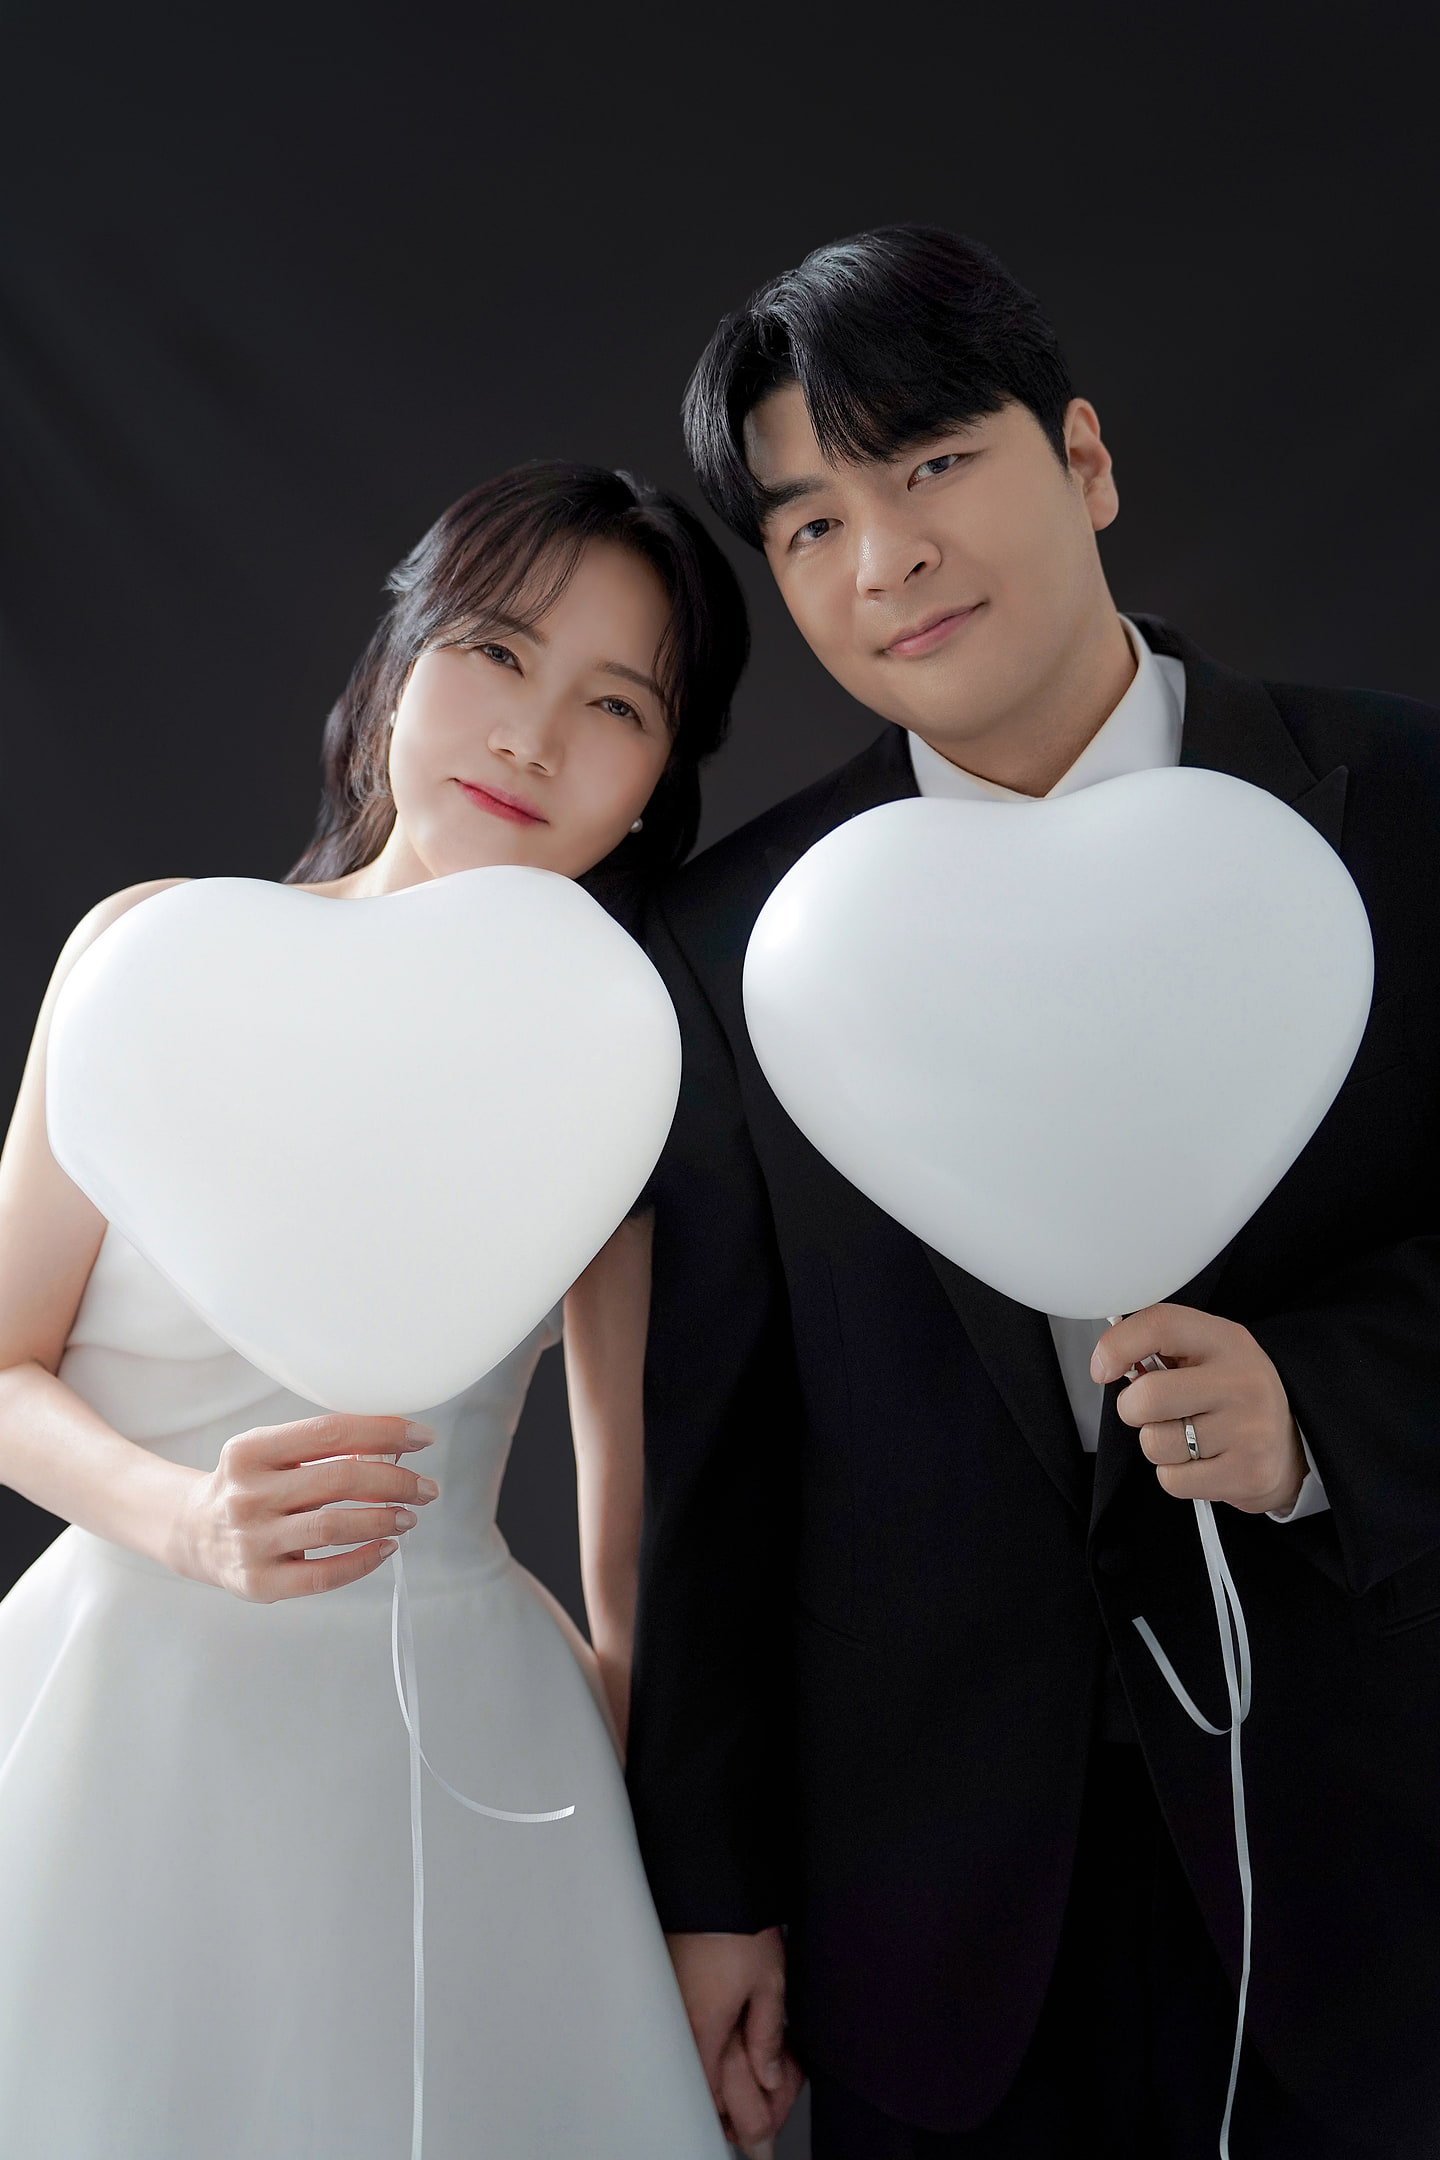
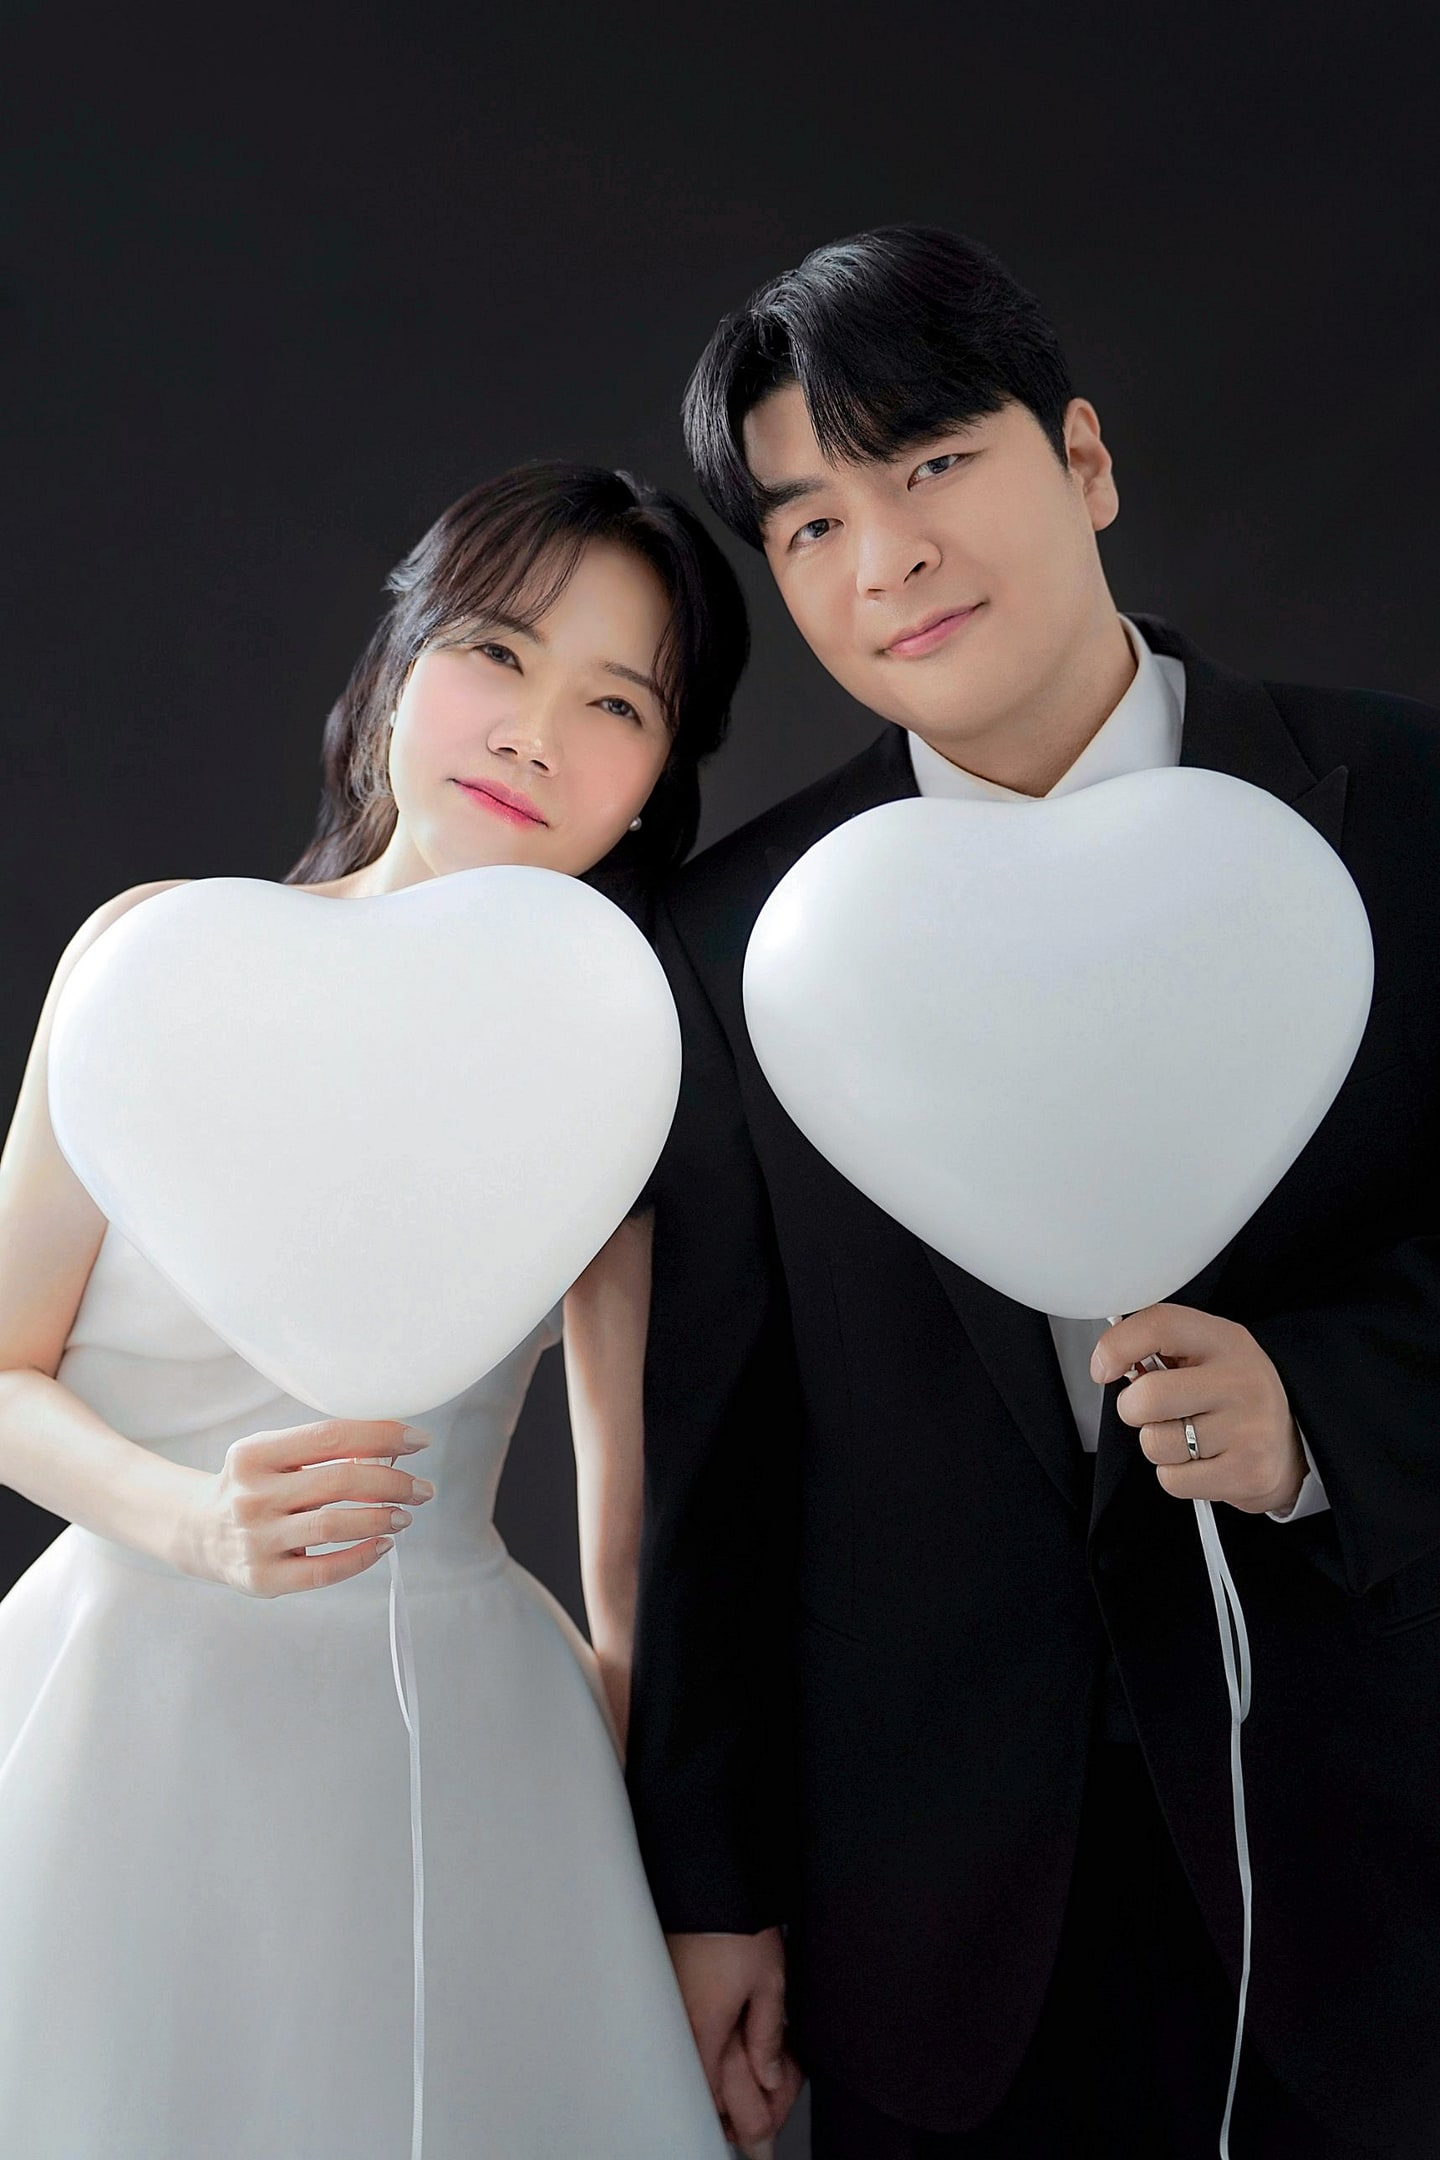
메인 사진을 빨간 꽃 사진으로 교체, 갤러리 7장으로 순서 정리, 카톡 미리보기를 베일 사진으로
- 메인 아치 비율 2:3 (사진 안 잘림)
- gallery5를 하트 풍선 사진으로 교체
- og.jpg 800x480 (두 사람 얼굴이 다 들어가게)

diff --git a/index.html b/index.html
@@ -11,15 +11,15 @@
   <meta property="og:type" content="website" />
   <meta property="og:title" content="석지환 ♥ 백혜정 결혼합니다" />
   <meta property="og:description" content="2026년 12월 13일 일요일 낮 12시 20분 · 더 리버사이드 호텔 노벨라홀" />
-  <meta property="og:image" content="https://jhhj-wedding.github.io/images/og.jpg?v=2" />
+  <meta property="og:image" content="https://jhhj-wedding.github.io/images/og.jpg?v=3" />
   <meta property="og:image:width" content="800" />
-  <meta property="og:image:height" content="400" />
+  <meta property="og:image:height" content="480" />
   <meta property="og:url" content="https://jhhj-wedding.github.io/" />
 
   <link rel="preconnect" href="https://fonts.googleapis.com" />
   <link rel="preconnect" href="https://fonts.gstatic.com" crossorigin />
   <link href="https://fonts.googleapis.com/css2?family=Gowun+Batang:wght@400;700&family=Noto+Sans+KR:wght@400;500&display=swap" rel="stylesheet" />
-  <link rel="stylesheet" href="style.css?v=20261109c" />
+  <link rel="stylesheet" href="style.css?v=20261116a" />
 </head>
 <body>
   <main class="container">
@@ -116,7 +116,7 @@
   <div class="toast" id="toast"></div>
 
   <script src="https://t1.kakaocdn.net/kakao_js_sdk/2.7.4/kakao.min.js" crossorigin="anonymous"></script>
-  <script src="config.js?v=20261109c"></script>
-  <script src="script.js?v=20261109c"></script>
+  <script src="config.js?v=20261116a"></script>
+  <script src="script.js?v=20261116a"></script>
 </body>
 </html>

diff --git a/config.js b/config.js
@@ -56,15 +56,16 @@ const CONFIG = {
 따뜻한 마음으로 축복해주시면 감사하겠습니다.`,
 
   // images 폴더에 넣은 파일 이름
-  mainImage: "images/bgimgmain.jpg",
+  mainImage: "images/main-arch.jpg", // 빨간 꽃 사진 (갤러리 4번째와 같은 사진)
   mainImageArch: true, // true: 사진을 아치 모양 액자에 넣음 (사진용) / false: 액자 없이 그대로 (일러스트용)
   gallery: [
-    "images/gallery1.jpg",
-    "images/gallery2.jpg",
-    "images/gallery3.jpg",
-    "images/gallery4.jpg",
-    "images/gallery5.jpg",
-    "images/gallery6.jpg",
+    "images/gallery3.jpg", // 꽃 아치 아래 전신
+    "images/gallery2.jpg", // 신부 단독
+    "images/gallery1.jpg", // 베일 아래 마주 보기
+    "images/main-arch.jpg", // 빨간 꽃 (메인 사진)
+    "images/gallery5.jpg", // 하트 풍선
+    "images/gallery4.jpg", // 클로즈업 마주 보기
+    "images/gallery6.jpg", // 노을 베일 (마무리)
   ],
 
   // 마음 전하실 곳 (양쪽 다 비워두면 섹션이 숨겨짐)

diff --git a/style.css b/style.css
@@ -38,7 +38,7 @@ button { font-family: inherit; cursor: pointer; }
 .hero-photo {
   display: block;
   width: 100%;
-  aspect-ratio: 4 / 5; /* 메인 사진(bgimgmain) 비율에 맞춤 — 양옆 안 잘림 */
+  aspect-ratio: 2 / 3; /* 메인 사진(main-arch, 빨간 꽃) 비율 그대로 — 안 잘림 */
   object-fit: cover;
   border-radius: 50% 50% 8px 8px / 18% 18% 8px 8px;
   background: linear-gradient(170deg, #dfe7ef, #b9c7d8);

diff --git a/script.js b/script.js
@@ -174,7 +174,7 @@
           description: document.querySelector('meta[property="og:description"]').content,
           imageUrl: document.querySelector('meta[property="og:image"]').content,
           imageWidth: 800,
-          imageHeight: 400,
+          imageHeight: 480,
           link: { mobileWebUrl: url, webUrl: url },
         },
         buttons: [{ title: "청첩장 보기", link: { mobileWebUrl: url, webUrl: url } }],
